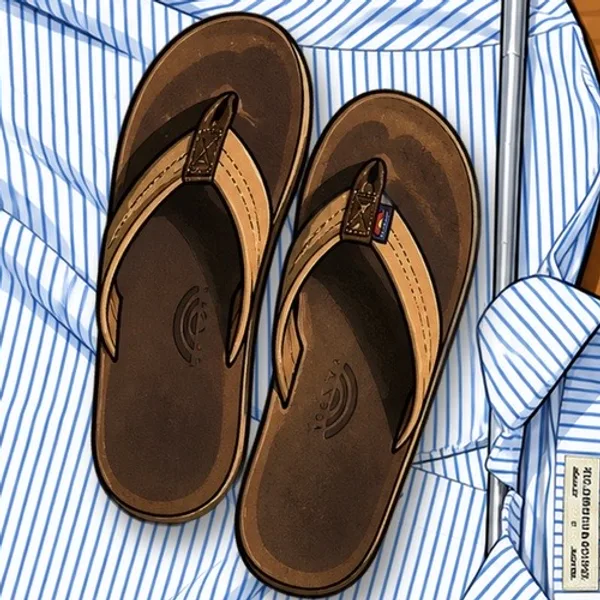
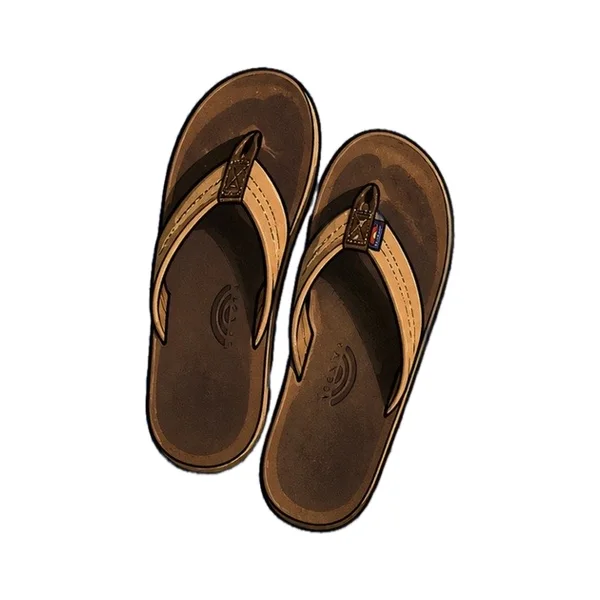
r371 welcome: single gear items cut out onto white tiles (no wood crops)
- 8 tiles: hat, flip flops, needlepoint flask, Game Day wallet, green wallet,
  tees, divot tool, wedge — each segmented out of the TeeBox illustration
  (macOS Vision foreground-instance mask), centered at 78% on a 600² white
  tile, 320 variant for phones; 232 KB total
- .welcome-tile: white background + hairline border so tiles read on cream
- polo, headcover, spiked shoe and pants overlap other items in the flat-lay
  and need separate source art

Claude-Session: https://claude.ai/code/session_01SxcqKymYZNAFdbKxcM17Pm

diff --git a/index.html b/index.html
@@ -1570,7 +1570,7 @@ window.__phDeferLoad = function(load) {
   .welcome-track { display: flex; gap: 10px; width: max-content; will-change: transform; }
   .welcome-row-a .welcome-track { animation: welcomeSlideLeft 48s linear infinite; }
   .welcome-row-b .welcome-track { animation: welcomeSlideRight 54s linear infinite; }
-  .welcome-tile { width: 150px; height: 150px; flex: 0 0 150px; border-radius: 14px; overflow: hidden; background: var(--gray-100); }
+  .welcome-tile { width: 150px; height: 150px; flex: 0 0 150px; border-radius: 14px; overflow: hidden; background: #fff; border: 1px solid var(--gray-200); box-sizing: border-box; }
   .welcome-tile img { width: 100%; height: 100%; object-fit: cover; display: block; }
   @keyframes welcomeSlideLeft  { from { transform: translateX(0); } to { transform: translateX(-50%); } }
   @keyframes welcomeSlideRight { from { transform: translateX(-50%); } to { transform: translateX(0); } }
@@ -5989,7 +5989,7 @@ window.__phDeferLoad = function(load) {
         <!-- Static build stamp: plain markup, no CSS gate, no JS — readable
              even when the boot wedges on this exact screen. BUMP PER RELEASE
              alongside sw.js CACHE_VERSION (ship-plan step). -->
-        <span class="auth-build" aria-hidden="true">r370</span></div>
+        <span class="auth-build" aria-hidden="true">r371</span></div>
     </div>
   </div>
 </div>
@@ -9484,8 +9484,8 @@ window.confirmPayment = async function() {
      fresh index.html could run against a 10-minute-old bingo.js (seen on r353:
      old row renderer inside new styles). A new revision = new URLs = no skew.
      Keep the value in sync with sw.js CACHE_VERSION — scripts/check-revision-sync.mjs. -->
-<script defer src="/js/app-main.js?v=r370"></script>
-<script type="module" src="/js/app-auth.js?v=r370"></script>
+<script defer src="/js/app-main.js?v=r371"></script>
+<script type="module" src="/js/app-auth.js?v=r371"></script>
 
 <!-- r349: marketplace script moved to /js/app-main.js (deferred; tag is placed before app-auth.js so execution order is unchanged). -->
 
@@ -9515,7 +9515,7 @@ window.confirmPayment = async function() {
      CSP: script is `type="module"` and the import target lives at our origin
      (`./bingo-courses.js`), satisfied by `script-src 'self'`.
      ───────────────────────────────────────────────────────────────────── -->
-<script type="module" src="/js/bingo.js?v=r370"></script>
+<script type="module" src="/js/bingo.js?v=r371"></script>
 </div><!-- /#app-scroll (r171) -->
 </body>
 </html>

diff --git a/js/app-main.js b/js/app-main.js
@@ -8939,13 +8939,13 @@ window.__actions['cm-disconnect'] = async (el) => {
 // after Skip), native on every cold launch (in-memory dismiss, like the old
 // auth gate — WKWebView keeps sessionStorage across cold launches). Never on
 // deep links (listing/order/offer/brand/seller/bingo/signin…), never for
-// crawlers, never once signed in. Tiles: /assets/welcome/art-*.webp — square
-// crops of the TeeBox gear illustrations (Jake, 2026-10-27: cartoon gear, not
-// listing photos). Add a tile = drop art-<name>.webp (600) + art-<name>-320.webp
-// in assets/welcome and list the name below; both rows cycle the same pool in
-// a different order so they never line up.
-const WELCOME_PHOTOS_A = ['art-flipflops', 'art-hat', 'art-headcover', 'art-wedge', 'art-wallet-green', 'art-shoe-saddle', 'art-tees', 'art-polo-stripe', 'art-gameday-wallet'];
-const WELCOME_PHOTOS_B = ['art-tees', 'art-gameday-wallet', 'art-flipflops', 'art-polo-stripe', 'art-headcover', 'art-wallet-green', 'art-hat', 'art-shoe-saddle', 'art-wedge'];
+// crawlers, never once signed in. Tiles: /assets/welcome/art-*.webp — single
+// gear items cut out of the TeeBox illustrations and centered on WHITE (Jake,
+// 2026-10-27: no wood/photo backgrounds). Add a tile = art-<name>.webp (600²)
+// + art-<name>-320.webp in assets/welcome and the name below; both rows cycle
+// the same pool in a different order so they never line up.
+const WELCOME_PHOTOS_A = ['art-hat', 'art-flipflops', 'art-flask', 'art-wedge', 'art-wallet-green', 'art-tees', 'art-wallet-gameday', 'art-divot-tool'];
+const WELCOME_PHOTOS_B = ['art-wedge', 'art-wallet-gameday', 'art-flipflops', 'art-divot-tool', 'art-hat', 'art-wallet-green', 'art-flask', 'art-tees'];
 const WELCOME_SNOOZE_KEY = 'tb_welcome_snooze';
 function welcomeTileHtml(name, eager) {
   const b = '/assets/welcome/' + name;

diff --git a/sw.js b/sw.js
@@ -1,6 +1,6 @@
 // TeeBox service worker — app-shell caching + offline fallback.
 // Bump CACHE_VERSION to invalidate the old cache after a deploy.
-const CACHE_VERSION = 'teebox-v1-2026-10-27-r370';
+const CACHE_VERSION = 'teebox-v1-2026-10-27-r371';
 // r354: the split scripts are referenced with ?v=<rev> from index.html so a new
 // page never runs against a stale cached script. Precache the same URLs.
 const REV = (CACHE_VERSION.match(/r\d+$/) || [''])[0];
